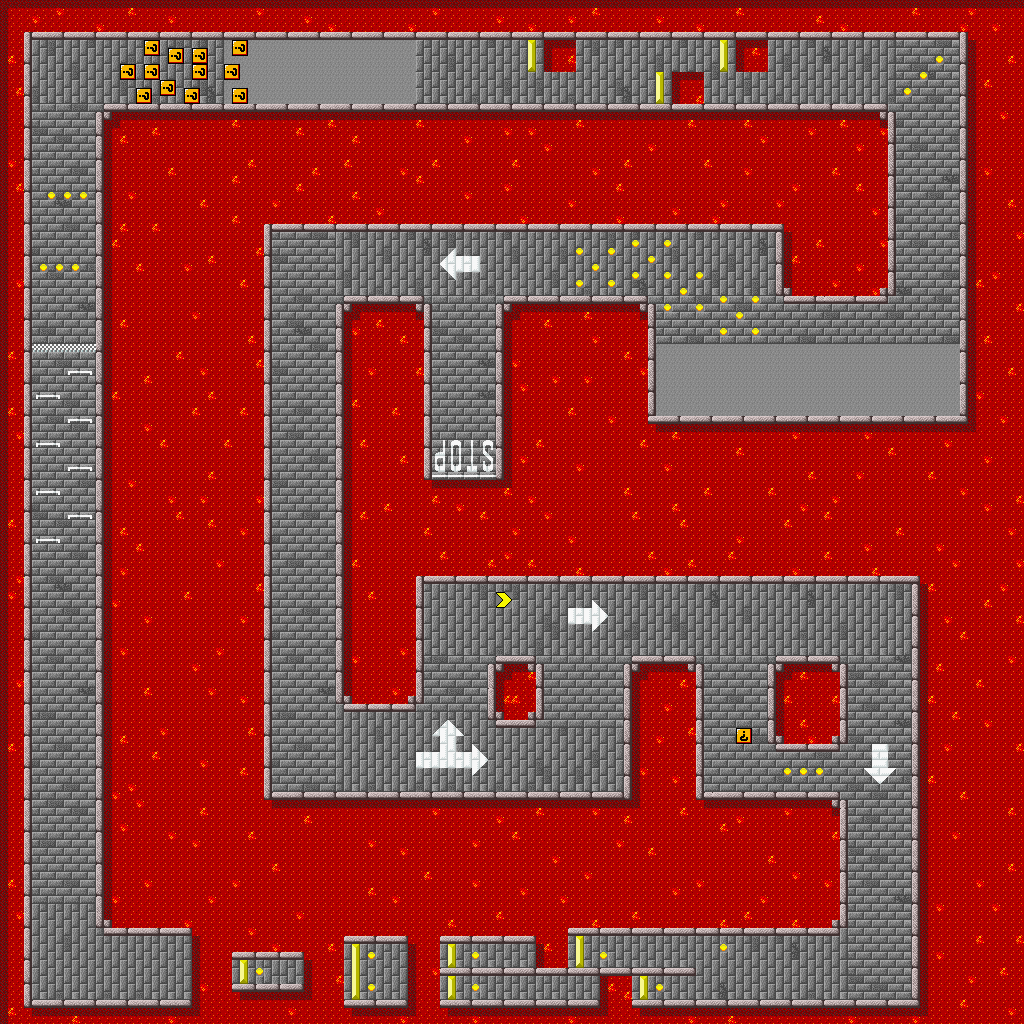
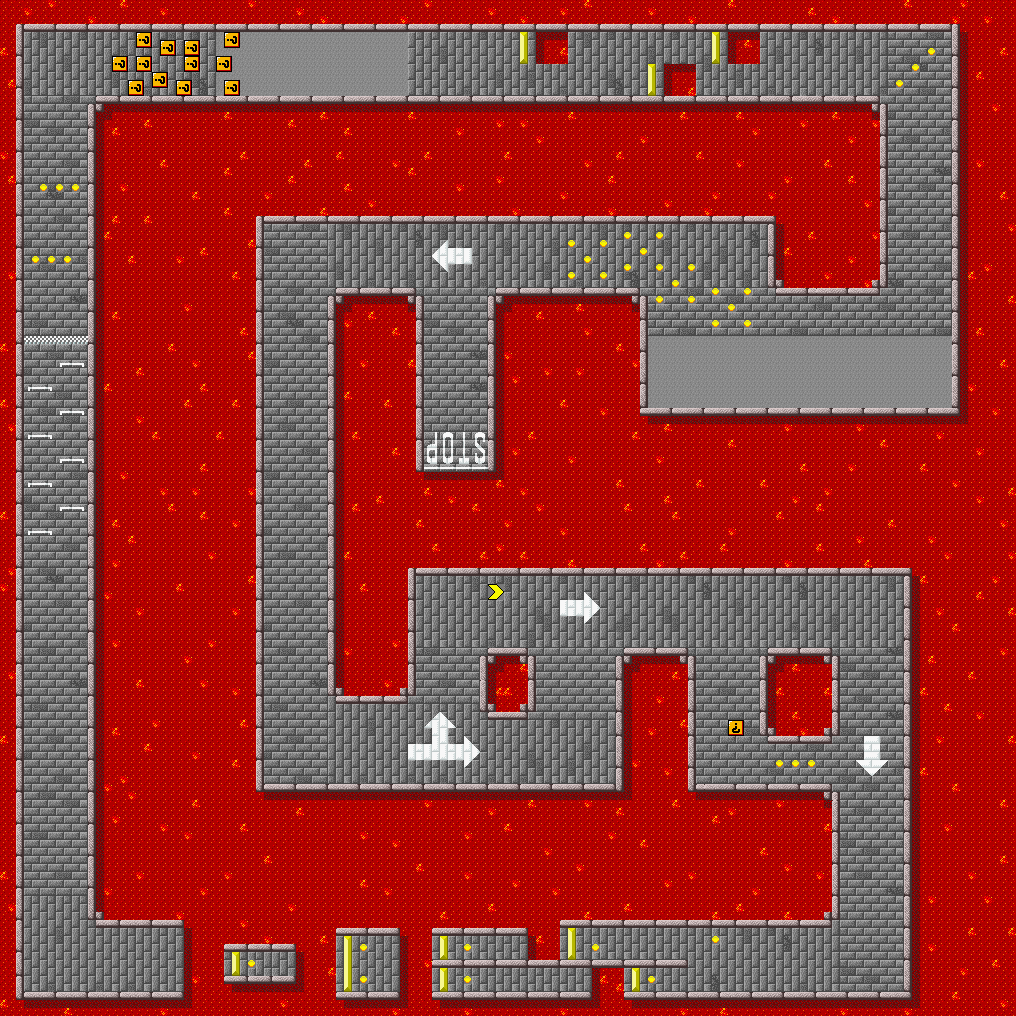
More work on Bowser's Castle BG

diff --git a/dx-redesign/backgrounds/mode7/mariokart_snes_bowser3.html b/dx-redesign/backgrounds/mode7/mariokart_snes_bowser3.html
@@ -7,7 +7,7 @@
             body {
                 margin: 0;
                 padding: 0;
-                /* background-color: black; */
+                background-color: #B00000;
             }
             .credits {
                 /* height: 100vh;
@@ -56,9 +56,10 @@
         <script type="module">
             import * as MODE7 from 'mode7'
             MODE7.constructPlane({
-                cameraPosition: {x: 0, y: 0.4, z: 2},
+                cameraPosition: {x: 0, y: 0.4, z: 1},
                 texture: "../assets/mariokart_snes_bowser3.png",
-                rotationSpeed: 0.001
+                rotationSpeed: 0.001,
+                cameraFov: 80
             });
         </script>
     </body>
